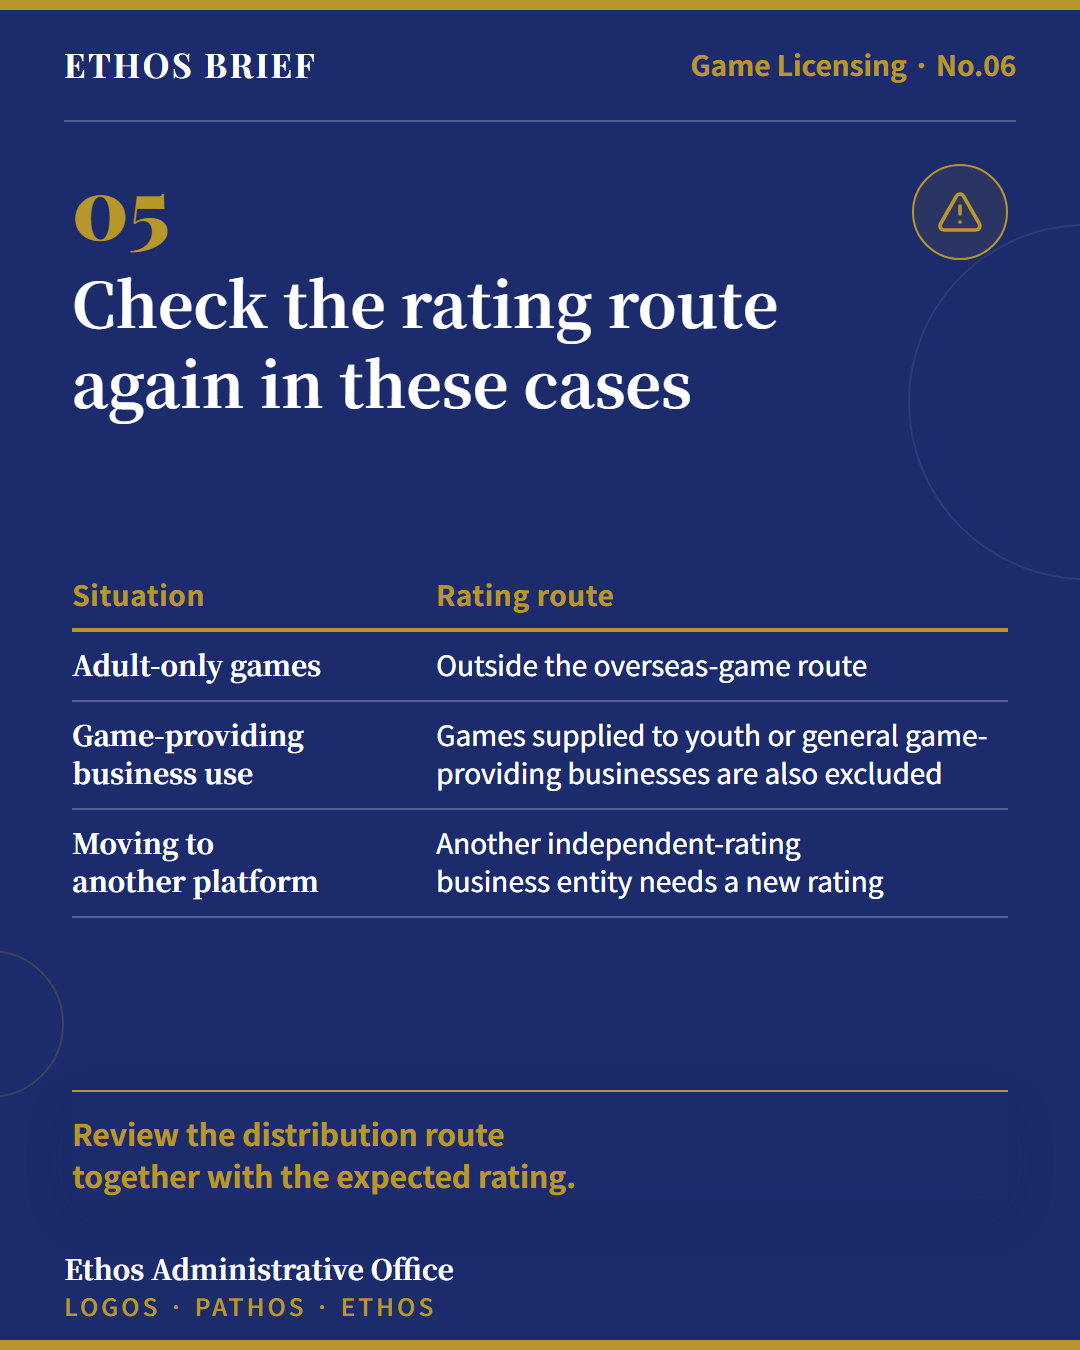
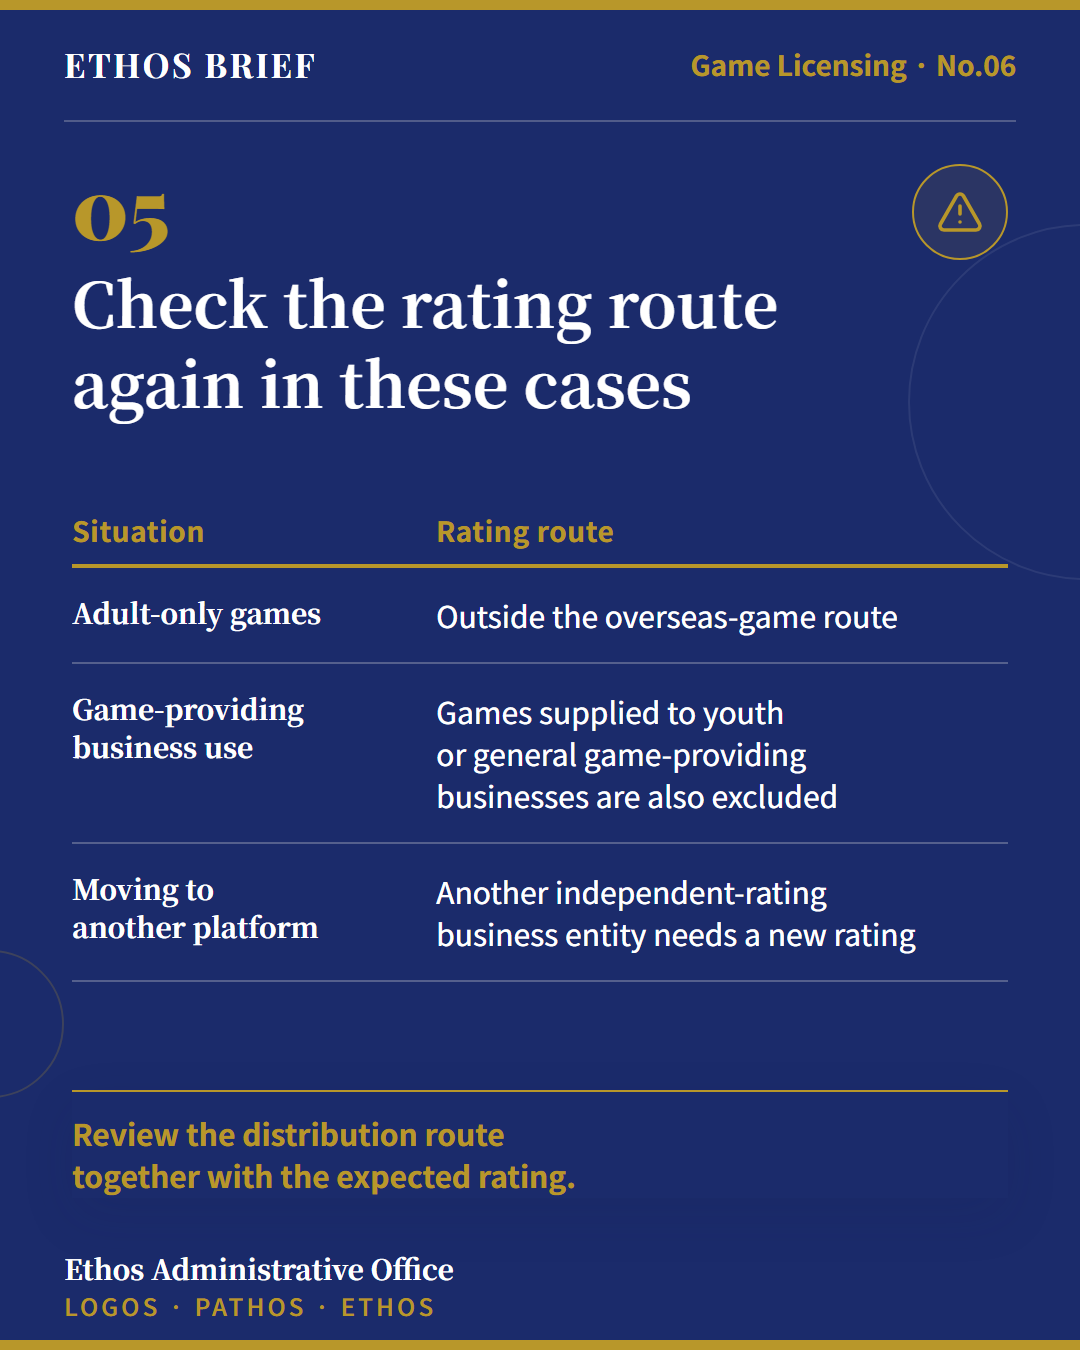
V2 초안을 새 표지·일러스트·밀도 보정으로 다시 렌더

Changed region(s): [[0.3972, 0.3733, 0.9167, 0.7156], [0.0611, 0.3733, 0.3056, 0.7156]]

diff --git a/content/GAME-OVERSEAS-06-V2-DRAFT/ko/card_01.html b/content/GAME-OVERSEAS-06-V2-DRAFT/ko/card_01.html
@@ -11,39 +11,24 @@
   <div class="hl" data-frame="line"></div>
   <div class="body">
     <div class="z-title" data-zone="title"><span class="chip">게임 인허가</span></div>
-    <div class="z-main" data-zone="main"><div><div class="cover-art" data-decor aria-hidden="true"><span class="art-disc"><svg class="ico" aria-hidden="true" focusable="false"
-  xmlns="http://www.w3.org/2000/svg"
- 
- 
-  viewBox="0 0 24 24"
-  fill="none"
-  stroke="currentColor"
-  stroke-width="2"
-  stroke-linecap="round"
-  stroke-linejoin="round"
->
-  <rect width="20" height="8" x="2" y="2" rx="2" ry="2" />
-  <rect width="20" height="8" x="2" y="14" rx="2" ry="2" />
-  <line x1="6" x2="6.01" y1="6" y2="6" />
-  <line x1="6" x2="6.01" y1="18" y2="18" />
-</svg></span><span class="art-link"></span><span class="art-disc"><svg class="ico" aria-hidden="true" focusable="false"
-  xmlns="http://www.w3.org/2000/svg"
- 
- 
-  viewBox="0 0 24 24"
-  fill="none"
-  stroke="currentColor"
-  stroke-width="2"
-  stroke-linecap="round"
-  stroke-linejoin="round"
->
-  <path d="M10 18v-7" />
-  <path d="M11.119 2.205a2 2 0 0 1 1.762 0l7.84 3.846A.5.5 0 0 1 20.5 7h-17a.5.5 0 0 1-.22-.949z" />
-  <path d="M14 18v-7" />
-  <path d="M18 18v-7" />
-  <path d="M3 22h18" />
-  <path d="M6 18v-7" />
-</svg></span></div><p class="cover-title" data-role="headline">서버는 싱가포르, 한국 법인은 없습니다. 이대로 한국에 출시해도 될까요?</p><p class="cover-lead">중요한 건 서버 위치나 게임의 국적이 아니라, 한국에서 누가 어떻게 유통·제공하느냐입니다.</p><p class="cover-promise" data-role="label">출시 전에 답할 6가지 질문</p></div></div>
+    <div class="z-main" data-zone="main"><div><div class="cover-panel" data-decor aria-hidden="true"><svg class="il" aria-hidden="true" focusable="false" preserveAspectRatio="xMidYMid meet" xmlns="http://www.w3.org/2000/svg" viewBox="0 0 360 140" fill="none">
+  <rect x="34" y="34" width="76" height="30" rx="7" class="f"/>
+  <rect x="34" y="34" width="76" height="30" rx="7" class="lm"/>
+  <rect x="34" y="72" width="76" height="30" rx="7" class="f"/>
+  <rect x="34" y="72" width="76" height="30" rx="7" class="lm"/>
+  <circle cx="48" cy="49" r="3.5" class="m"/>
+  <circle cx="48" cy="87" r="3.5" class="m"/>
+  <path d="M60 49h38M60 87h38" class="ln"/>
+  <path d="M122 70c26-44 90-44 116 0" class="lm dash"/>
+  <path d="M230 62l8 8-10 5" class="lm"/>
+  <path d="M250 104h92" class="lm"/>
+  <path d="M258 104V70h76v34" class="f"/>
+  <path d="M258 70l38-26 38 26" class="m"/>
+  <rect x="270" y="78" width="9" height="26" class="m"/>
+  <rect x="291.5" y="78" width="9" height="26" class="m"/>
+  <rect x="313" y="78" width="9" height="26" class="m"/>
+  <rect x="248" y="104" width="96" height="9" rx="3" class="m"/>
+</svg></div><p class="cover-title" data-role="headline">서버는 해외, 한국 법인은 없습니다. 출시해도 될까요?</p><p class="cover-lead">중요한 건 서버가 아니라 한국에서의 유통 구조입니다.</p><p class="cover-promise" data-role="label">출시 전에 답할 6가지 질문</p></div></div>
     <div class="z-take" data-zone="take"><div class="take" data-role="takeaway">서비스 구조가 정해지면, 절차의 주체도 보입니다.</div></div>
   </div>
 

diff --git a/content/GAME-OVERSEAS-06-V2-DRAFT/en/card_01.html b/content/GAME-OVERSEAS-06-V2-DRAFT/en/card_01.html
@@ -11,39 +11,24 @@
   <div class="hl" data-frame="line"></div>
   <div class="body">
     <div class="z-title" data-zone="title"><span class="chip">Game Licensing</span></div>
-    <div class="z-main" data-zone="main"><div><div class="cover-art" data-decor aria-hidden="true"><span class="art-disc"><svg class="ico" aria-hidden="true" focusable="false"
-  xmlns="http://www.w3.org/2000/svg"
- 
- 
-  viewBox="0 0 24 24"
-  fill="none"
-  stroke="currentColor"
-  stroke-width="2"
-  stroke-linecap="round"
-  stroke-linejoin="round"
->
-  <rect width="20" height="8" x="2" y="2" rx="2" ry="2" />
-  <rect width="20" height="8" x="2" y="14" rx="2" ry="2" />
-  <line x1="6" x2="6.01" y1="6" y2="6" />
-  <line x1="6" x2="6.01" y1="18" y2="18" />
-</svg></span><span class="art-link"></span><span class="art-disc"><svg class="ico" aria-hidden="true" focusable="false"
-  xmlns="http://www.w3.org/2000/svg"
- 
- 
-  viewBox="0 0 24 24"
-  fill="none"
-  stroke="currentColor"
-  stroke-width="2"
-  stroke-linecap="round"
-  stroke-linejoin="round"
->
-  <path d="M10 18v-7" />
-  <path d="M11.119 2.205a2 2 0 0 1 1.762 0l7.84 3.846A.5.5 0 0 1 20.5 7h-17a.5.5 0 0 1-.22-.949z" />
-  <path d="M14 18v-7" />
-  <path d="M18 18v-7" />
-  <path d="M3 22h18" />
-  <path d="M6 18v-7" />
-</svg></span></div><p class="cover-title" data-role="headline">Singapore servers, no Korean entity. Can you launch in Korea?</p><p class="cover-lead">The server and the game&#x27;s nationality matter less than who distributes it in Korea.</p><p class="cover-promise" data-role="label">6 questions to answer before launch</p></div></div>
+    <div class="z-main" data-zone="main"><div><div class="cover-panel" data-decor aria-hidden="true"><svg class="il" aria-hidden="true" focusable="false" preserveAspectRatio="xMidYMid meet" xmlns="http://www.w3.org/2000/svg" viewBox="0 0 360 140" fill="none">
+  <rect x="34" y="34" width="76" height="30" rx="7" class="f"/>
+  <rect x="34" y="34" width="76" height="30" rx="7" class="lm"/>
+  <rect x="34" y="72" width="76" height="30" rx="7" class="f"/>
+  <rect x="34" y="72" width="76" height="30" rx="7" class="lm"/>
+  <circle cx="48" cy="49" r="3.5" class="m"/>
+  <circle cx="48" cy="87" r="3.5" class="m"/>
+  <path d="M60 49h38M60 87h38" class="ln"/>
+  <path d="M122 70c26-44 90-44 116 0" class="lm dash"/>
+  <path d="M230 62l8 8-10 5" class="lm"/>
+  <path d="M250 104h92" class="lm"/>
+  <path d="M258 104V70h76v34" class="f"/>
+  <path d="M258 70l38-26 38 26" class="m"/>
+  <rect x="270" y="78" width="9" height="26" class="m"/>
+  <rect x="291.5" y="78" width="9" height="26" class="m"/>
+  <rect x="313" y="78" width="9" height="26" class="m"/>
+  <rect x="248" y="104" width="96" height="9" rx="3" class="m"/>
+</svg></div><p class="cover-title" data-role="headline">Singapore servers, no Korean entity. Can you launch in Korea?</p><p class="cover-lead">The server and the game&#x27;s nationality matter less than who distributes it in Korea.</p><p class="cover-promise" data-role="label">6 questions to answer before launch</p></div></div>
     <div class="z-take" data-zone="take"><div class="take" data-role="takeaway">Settle the service structure first; the responsible parties follow.</div></div>
   </div>
 

diff --git a/content/GAME-OVERSEAS-06-V2-DRAFT/ko/card_07.html b/content/GAME-OVERSEAS-06-V2-DRAFT/ko/card_07.html
@@ -5,7 +5,7 @@
 <link rel="stylesheet" href="../../../templates/base.css">
 <link rel="stylesheet" href="../../../templates/card-types.css">
 </head><body>
-<div class="card navy lang-ko canvas-portrait family-social-native beat-calm pace-a has-icon" data-card-type="comparison" data-bg="navy" data-page="7" data-canvas="portrait" data-visual-family="social-native">
+<div class="card navy lang-ko canvas-portrait family-social-native beat-calm pace-a has-icon dens-low" data-card-type="comparison" data-bg="navy" data-page="7" data-canvas="portrait" data-visual-family="social-native">
   <div class="gold-top" data-frame="gold-top"></div>
   <div class="hdr"><span class="wm" data-frame="wordmark">ETHOS BRIEF</span><span class="sec" data-frame="section">게임 인허가 · No.06</span></div>
   <div class="hl" data-frame="line"></div>
@@ -25,7 +25,17 @@
   <path d="M14 2v5a1 1 0 0 0 1 1h5" />
   <path d="m9 15 2 2 4-4" />
 </svg></span></div>
-    <div class="z-main" data-zone="main"><div class="split split-2"><div class="split-col"><div class="split-title" data-role="subheading">국내대리인이 맡는 일</div><div class="split-copy">게임산업법상 보고 이행, 게임물 표시의무 이행</div></div><div class="split-col"><div class="split-title" data-role="subheading">지정만으로 대신하지 않는 일</div><div class="split-copy">국내 퍼블리셔의 역할, 게임배급업 등록, 모든 등급분류 절차</div></div></div></div>
+    <div class="z-main" data-zone="main"><div class="il-wrap" data-decor aria-hidden="true"><svg class="il" aria-hidden="true" focusable="false" preserveAspectRatio="xMidYMid meet" xmlns="http://www.w3.org/2000/svg" viewBox="0 0 360 140" fill="none">
+  <g transform="translate(180 70)">
+    <rect x="-112" y="-50" width="88" height="104" rx="9" class="s" transform="rotate(-10 -68 2)"/>
+    <rect x="24" y="-50" width="88" height="104" rx="9" class="s" transform="rotate(10 68 2)"/>
+    <rect x="-50" y="-62" width="100" height="124" rx="10" class="f"/>
+    <rect x="-50" y="-62" width="100" height="124" rx="10" class="lm"/>
+    <path d="M-30 -38h60M-30 -22h60M-30 -6h36" class="ln"/>
+    <circle cx="30" cy="38" r="17" class="m"/>
+    <path d="M22 38l6 6 11-12" class="lf"/>
+  </g>
+</svg></div><div class="split split-2"><div class="split-col"><div class="split-title" data-role="subheading">국내대리인이 맡는 일</div><div class="split-copy">게임산업법상 보고 이행, 게임물 표시의무 이행</div></div><div class="split-col"><div class="split-title" data-role="subheading">지정만으로 대신하지 않는 일</div><div class="split-copy">국내 퍼블리셔의 역할, 게임배급업 등록, 모든 등급분류 절차</div></div></div></div>
     <div class="z-take" data-zone="take"><div class="take" data-role="takeaway">국내대리인 지정과 한국 출시 절차의 완료는 별개입니다.</div></div>
   </div>
 

diff --git a/content/GAME-OVERSEAS-06-V2-DRAFT/ko/card_06.html b/content/GAME-OVERSEAS-06-V2-DRAFT/ko/card_06.html
@@ -5,7 +5,7 @@
 <link rel="stylesheet" href="../../../templates/base.css">
 <link rel="stylesheet" href="../../../templates/card-types.css">
 </head><body>
-<div class="card cream lang-ko canvas-portrait family-social-native beat-toolkit pace-b has-icon" data-card-type="checklist" data-bg="cream" data-page="6" data-canvas="portrait" data-visual-family="social-native">
+<div class="card cream lang-ko canvas-portrait family-social-native beat-toolkit pace-b has-icon dens-low" data-card-type="checklist" data-bg="cream" data-page="6" data-canvas="portrait" data-visual-family="social-native">
   <div class="gold-top" data-frame="gold-top"></div>
   <div class="hdr"><span class="wm" data-frame="wordmark">ETHOS BRIEF</span><span class="sec" data-frame="section">게임 인허가 · No.06</span></div>
   <div class="hl" data-frame="line"></div>

diff --git a/content/GAME-OVERSEAS-06-V2-DRAFT/ko/card_08.html b/content/GAME-OVERSEAS-06-V2-DRAFT/ko/card_08.html
@@ -5,7 +5,7 @@
 <link rel="stylesheet" href="../../../templates/base.css">
 <link rel="stylesheet" href="../../../templates/card-types.css">
 </head><body>
-<div class="card cream lang-ko canvas-portrait family-social-native beat-toolkit pace-b has-icon" data-card-type="checklist" data-bg="cream" data-page="8" data-canvas="portrait" data-visual-family="social-native">
+<div class="card cream lang-ko canvas-portrait family-social-native beat-toolkit pace-b has-icon dens-mid" data-card-type="checklist" data-bg="cream" data-page="8" data-canvas="portrait" data-visual-family="social-native">
   <div class="gold-top" data-frame="gold-top"></div>
   <div class="hdr"><span class="wm" data-frame="wordmark">ETHOS BRIEF</span><span class="sec" data-frame="section">게임 인허가 · No.06</span></div>
   <div class="hl" data-frame="line"></div>

diff --git a/content/GAME-OVERSEAS-06-V2-DRAFT/en/card_06.html b/content/GAME-OVERSEAS-06-V2-DRAFT/en/card_06.html
@@ -5,7 +5,7 @@
 <link rel="stylesheet" href="../../../templates/base.css">
 <link rel="stylesheet" href="../../../templates/card-types.css">
 </head><body>
-<div class="card cream lang-en canvas-portrait family-social-native beat-toolkit pace-b has-icon" data-card-type="checklist" data-bg="cream" data-page="6" data-canvas="portrait" data-visual-family="social-native">
+<div class="card cream lang-en canvas-portrait family-social-native beat-toolkit pace-b has-icon dens-low" data-card-type="checklist" data-bg="cream" data-page="6" data-canvas="portrait" data-visual-family="social-native">
   <div class="gold-top" data-frame="gold-top"></div>
   <div class="hdr"><span class="wm" data-frame="wordmark">ETHOS BRIEF</span><span class="sec" data-frame="section">Game Licensing · No.06</span></div>
   <div class="hl" data-frame="line"></div>

diff --git a/content/GAME-OVERSEAS-06-V2-DRAFT/en/card_08.html b/content/GAME-OVERSEAS-06-V2-DRAFT/en/card_08.html
@@ -5,7 +5,7 @@
 <link rel="stylesheet" href="../../../templates/base.css">
 <link rel="stylesheet" href="../../../templates/card-types.css">
 </head><body>
-<div class="card cream lang-en canvas-portrait family-social-native beat-toolkit pace-b has-icon" data-card-type="checklist" data-bg="cream" data-page="8" data-canvas="portrait" data-visual-family="social-native">
+<div class="card cream lang-en canvas-portrait family-social-native beat-toolkit pace-b has-icon dens-mid" data-card-type="checklist" data-bg="cream" data-page="8" data-canvas="portrait" data-visual-family="social-native">
   <div class="gold-top" data-frame="gold-top"></div>
   <div class="hdr"><span class="wm" data-frame="wordmark">ETHOS BRIEF</span><span class="sec" data-frame="section">Game Licensing · No.06</span></div>
   <div class="hl" data-frame="line"></div>

diff --git a/content/GAME-OVERSEAS-06-V2-DRAFT/ko/card_04.html b/content/GAME-OVERSEAS-06-V2-DRAFT/ko/card_04.html
@@ -5,7 +5,7 @@
 <link rel="stylesheet" href="../../../templates/base.css">
 <link rel="stylesheet" href="../../../templates/card-types.css">
 </head><body>
-<div class="card cream lang-ko canvas-portrait family-social-native beat-calm pace-b has-icon" data-card-type="comparison" data-bg="cream" data-page="4" data-canvas="portrait" data-visual-family="social-native">
+<div class="card cream lang-ko canvas-portrait family-social-native beat-calm pace-b has-icon dens-low" data-card-type="comparison" data-bg="cream" data-page="4" data-canvas="portrait" data-visual-family="social-native">
   <div class="gold-top" data-frame="gold-top"></div>
   <div class="hdr"><span class="wm" data-frame="wordmark">ETHOS BRIEF</span><span class="sec" data-frame="section">게임 인허가 · No.06</span></div>
   <div class="hl" data-frame="line"></div>

diff --git a/content/GAME-OVERSEAS-06-V2-DRAFT/en/card_04.html b/content/GAME-OVERSEAS-06-V2-DRAFT/en/card_04.html
@@ -5,7 +5,7 @@
 <link rel="stylesheet" href="../../../templates/base.css">
 <link rel="stylesheet" href="../../../templates/card-types.css">
 </head><body>
-<div class="card cream lang-en canvas-portrait family-social-native beat-calm pace-b has-icon" data-card-type="comparison" data-bg="cream" data-page="4" data-canvas="portrait" data-visual-family="social-native">
+<div class="card cream lang-en canvas-portrait family-social-native beat-calm pace-b has-icon dens-mid" data-card-type="comparison" data-bg="cream" data-page="4" data-canvas="portrait" data-visual-family="social-native">
   <div class="gold-top" data-frame="gold-top"></div>
   <div class="hdr"><span class="wm" data-frame="wordmark">ETHOS BRIEF</span><span class="sec" data-frame="section">Game Licensing · No.06</span></div>
   <div class="hl" data-frame="line"></div>

diff --git a/content/GAME-OVERSEAS-06-V2-DRAFT/en/card_07.html b/content/GAME-OVERSEAS-06-V2-DRAFT/en/card_07.html
@@ -5,7 +5,7 @@
 <link rel="stylesheet" href="../../../templates/base.css">
 <link rel="stylesheet" href="../../../templates/card-types.css">
 </head><body>
-<div class="card navy lang-en canvas-portrait family-social-native beat-calm pace-a has-icon" data-card-type="comparison" data-bg="navy" data-page="7" data-canvas="portrait" data-visual-family="social-native">
+<div class="card navy lang-en canvas-portrait family-social-native beat-calm pace-a has-icon dens-low" data-card-type="comparison" data-bg="navy" data-page="7" data-canvas="portrait" data-visual-family="social-native">
   <div class="gold-top" data-frame="gold-top"></div>
   <div class="hdr"><span class="wm" data-frame="wordmark">ETHOS BRIEF</span><span class="sec" data-frame="section">Game Licensing · No.06</span></div>
   <div class="hl" data-frame="line"></div>

diff --git a/content/GAME-OVERSEAS-06-V2-DRAFT/ko/card_05.html b/content/GAME-OVERSEAS-06-V2-DRAFT/ko/card_05.html
@@ -5,7 +5,7 @@
 <link rel="stylesheet" href="../../../templates/base.css">
 <link rel="stylesheet" href="../../../templates/card-types.css">
 </head><body>
-<div class="card navy lang-ko canvas-portrait family-social-native beat-calm pace-a has-icon" data-card-type="table" data-bg="navy" data-page="5" data-canvas="portrait" data-visual-family="social-native">
+<div class="card navy lang-ko canvas-portrait family-social-native beat-calm pace-a has-icon dens-mid" data-card-type="table" data-bg="navy" data-page="5" data-canvas="portrait" data-visual-family="social-native">
   <div class="gold-top" data-frame="gold-top"></div>
   <div class="hdr"><span class="wm" data-frame="wordmark">ETHOS BRIEF</span><span class="sec" data-frame="section">게임 인허가 · No.06</span></div>
   <div class="hl" data-frame="line"></div>

diff --git a/content/GAME-OVERSEAS-06-V2-DRAFT/en/card_05.html b/content/GAME-OVERSEAS-06-V2-DRAFT/en/card_05.html
@@ -5,7 +5,7 @@
 <link rel="stylesheet" href="../../../templates/base.css">
 <link rel="stylesheet" href="../../../templates/card-types.css">
 </head><body>
-<div class="card navy lang-en canvas-portrait family-social-native beat-calm pace-a has-icon" data-card-type="table" data-bg="navy" data-page="5" data-canvas="portrait" data-visual-family="social-native">
+<div class="card navy lang-en canvas-portrait family-social-native beat-calm pace-a has-icon dens-mid" data-card-type="table" data-bg="navy" data-page="5" data-canvas="portrait" data-visual-family="social-native">
   <div class="gold-top" data-frame="gold-top"></div>
   <div class="hdr"><span class="wm" data-frame="wordmark">ETHOS BRIEF</span><span class="sec" data-frame="section">Game Licensing · No.06</span></div>
   <div class="hl" data-frame="line"></div>
